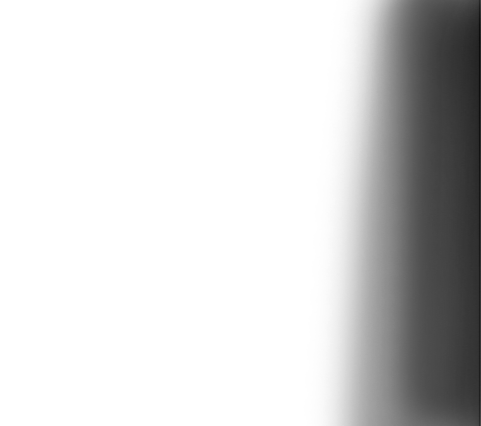
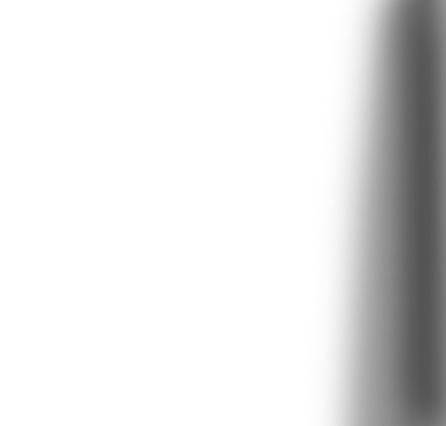
update style of the main page

Changed region(s): [[0.6996, 0.0, 1.0, 1.0]]

diff --git a/src/css/styles.css b/src/css/styles.css
@@ -13,15 +13,15 @@ body {
 }
 
 #stars {
-  width: 40vw;
+  width: 30vw;
   position: relative;
 }
 
 #gradient {
   position: absolute;
-  width: 40vw;
+  width: 30vw;
   height: 100vh;
-  left: 0;
+  right: 0;
   top: 0;
   background-image: url("../assets/images/planets/sunGradient.png");
   background-size: cover;
@@ -40,87 +40,103 @@ body {
   background-repeat: no-repeat;
 }
 
-#sun img {
-  height: 100vh;
-  float: right;
+.row {
+  width: 70vw;
+  display: flex;
+  justify-content: space-evenly;
+  align-items: center;
+}
+
+.row > div {
+  background-position: center;
+  background-size: contain;
+  background-repeat: no-repeat;
+  margin: 10px;
+  animation: float 3s linear infinite;
+}
+
+@keyframes float {
+  0% {
+    transform: translate(0, 0);
+  }
+  25% {
+    transform: translate(5%, 0);
+  }
+  50% {
+    transform: translate(5%, 5%);
+  }
+  75% {
+    transform: translate(0, 5%);
+  }
+  100% {
+    transform: translate(0, 0);
+  }
 }
 
 #mercury {
-  width: 10vw;
-  height: 100px;
+  width: 40px;
+  height: 40px;
   background-image: url("../assets/images/planets/mercury.jpeg");
-  background-position: center;
-  background-size: contain;
-  background-repeat: no-repeat;
+  animation-delay: 1s;
 }
 
 #venus {
-  width: 10vw;
-  height: 100px;
+  width: 60px;
+  height: 60px;
   background-image: url("../assets/images/planets/venus.jpeg");
-  background-position: center;
-  background-size: contain;
-  background-repeat: no-repeat;
+
+  animation-delay: 2s;
 }
 
 #earth {
-  width: 10vw;
-  height: 100px;
+  width: 65px;
+  height: 65px;
   background-image: url("../assets/images/planets/earth.jpeg");
   background-position: center;
   background-size: contain;
   background-repeat: no-repeat;
+  animation-delay: 3s;
 }
 
 #mars {
-  width: 10vw;
-  height: 100px;
+  width: 63px;
+  height: 63px;
   background-image: url("../assets/images/planets/mars.jpeg");
-  background-position: center;
-  background-size: contain;
-  background-repeat: no-repeat;
+  animation-delay: 4s;
 }
 
 #jupiter {
-  width: 10vw;
-  height: 100px;
+  width: 140px;
+  height: 140px;
   background-image: url("../assets/images/planets/jupiter.png");
-  background-position: center;
-  background-size: contain;
-  background-repeat: no-repeat;
+  animation-delay: 1s;
 }
 
 #saturn {
-  width: 10vw;
-  height: 100px;
+  width: 250px;
+  height: 90px;
   background-image: url("../assets/images/planets/saturn.jpg");
-  background-position: center;
-  background-size: contain;
-  background-repeat: no-repeat;
 }
 
 #uranus {
-  width: 10vw;
-  height: 100px;
+  width: 80px;
+  height: 80px;
   background-image: url("../assets/images/planets/uranus.jpeg");
   background-position: center;
   background-size: contain;
   background-repeat: no-repeat;
+  animation-delay: 10ms;
 }
 
 #neptune {
-  width: 10vw;
-  height: 100px;
+  width: 85px;
+  height: 85px;
   background-image: url("../assets/images/planets/neptune.jpeg");
-  background-position: center;
-  background-size: contain;
-  background-repeat: no-repeat;
+  animation-delay: 2s;
 }
 #pluto {
-  width: 10vw;
-  height: 100px;
+  width: 30px;
+  height: 30px;
   background-image: url("../assets/images/planets/pluto.jpeg");
-  background-position: center;
-  background-size: contain;
-  background-repeat: no-repeat;
+  animation-delay: 3s;
 }

diff --git a/src/index.html b/src/index.html
@@ -10,15 +10,19 @@
         <div id="gradient"></div>
       </div>
       <div id="planets">
-        <div id="mercury"></div>
-        <div id="venus"></div>
-        <div id="earth"></div>
-        <div id="mars"></div>
-        <div id="jupiter"></div>
-        <div id="saturn"></div>
-        <div id="uranus"></div>
-        <div id="neptune"></div>
-        <div id="pluto"></div>
+        <div class="row">
+          <div id="mercury"></div>
+          <div id="earth"></div>
+          <div id="jupiter"></div>
+          <div id="uranus"></div>
+          <div id="pluto"></div>
+        </div>
+        <div class="row">
+          <div id="venus"></div>
+          <div id="mars"></div>
+          <div id="saturn"></div>
+          <div id="neptune"></div>
+        </div>
       </div>
     </div>
   </body>
